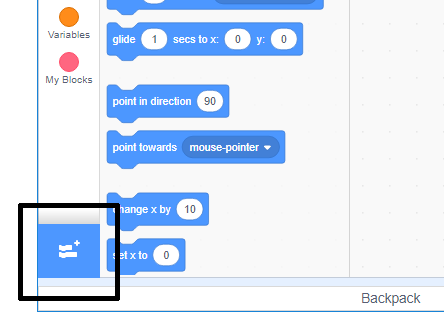
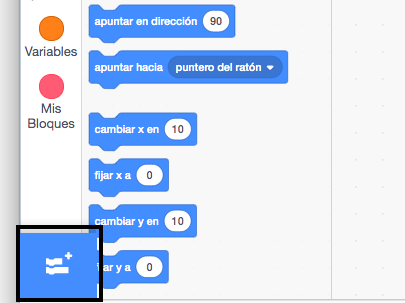
Update translation
LatAm Spanish

diff --git a/es-LA/step_2.md b/es-LA/step_2.md
@@ -20,7 +20,7 @@ Se ve así:
 
 --- task ---
 
-El objeto gato que ves es la mascota de Scratch. No lo necesitas para este juego, de modo que puedes eliminarlo haciendo clic encima de él con el botón derecho y luego haciendo clic en **borrar**.
+El objeto gato que ves es la mascota de Scratch. No lo necesitas para este juego, así que elimínalo haciendo clic en la X de la esquina.
 
 ![captura de pantalla](images/band-delete-annotated.png)
 
@@ -44,17 +44,13 @@ Baja hasta encontrar el objeto tambor. Haz clic en un tambor para añadirlo a tu
 
 --- task ---
 
-Haz clic y arrastra el tambor hasta la parte inferior del escenario.
-
---- /task ---
-
---- task ---
-
-Dale un nombre a tu programa escribiendo en el cuadro de texto en la esquina superior.
+Si has iniciado sesión en tu cuenta de Scratch, escribe el título de tu proyecto en el cuadro de título del proyecto en la parte superior de la pantalla:
 
 ![nombre](images/band-name-annotated.png)
 
-Luego haz clic en **Archivo**, y luego en **Guardar ahora** para guardar tu proyecto.
+**Consejo:** Dale a tus proyectos nombres útiles para que puedas encontrarlos fácilmente cuando tengas muchos proyectos.
+
+A continuación, haz clic en Archivo y luego en Guardar ahora para guardar tu proyecto.
 
 Si no estás conectado o no tienes una cuenta de Scratch, puedes guardar una copia de tu proyecto haciendo clic en **Guardar en tu computador**.
 

diff --git a/es-LA/step_1.md b/es-LA/step_1.md
@@ -1,9 +1,3 @@
---- no-print ---
-
-Esta es la versión **Scratch 3** del proyecto. También existe una versión [Scratch 2 del proyecto](https://projects.raspberrypi.org/es-LA/projects/rock-band-scratch2).
-
---- /no-print ---
-
 ## Introducción
 
 ¡Aprende cómo codificar tus propios instrumentos musicales!
@@ -12,7 +6,7 @@ Esta es la versión **Scratch 3** del proyecto. También existe una versión [Sc
 
 --- no-print ---
 
-Haz clic en la bandera verde para empezar. Luego, haz clic en el cantante o el tambor para escuchar cómo suenan.
+Vas a crear un juego en el que al hacer clic en el cantante o el tambor se escucharán cantos o los sonidos del tambor.
 
 <div class="scratch-preview">
   <iframe allowtransparency="true" width="485" height="402" src="https://scratch.mit.edu/projects/embed/276872220/?autostart=false" frameborder="0" scrolling="no"></iframe>
@@ -22,7 +16,7 @@ Haz clic en la bandera verde para empezar. Luego, haz clic en el cantante o el t
 
 --- print-only ---
 
-Vas a crear un juego en el que al hacer clic en el cantante o el tambor se escucharán cantos o los sonidos del tambor.
+Haz clic en la bandera verde para empezar. Luego, haz clic en el cantante o el tambor para escuchar cómo suenan.
 
 ![captura de pantalla del juego](images/demo.png)
 

diff --git a/es-LA/step_9.md b/es-LA/step_9.md
@@ -19,12 +19,13 @@ Haz clic en la bandera verde para ver la animación.
 
 --- /print-only ---
 
-
 ***
+
 Este proyecto fue traducido por voluntarios:
 
 Carlos Gomez Garza
-
 Natalie Gomez Benavides
+Verónica VL
+Ana Luisa Cubas Córdova
 
 Gracias a los voluntarios, podemos dar a las personas de todo el mundo la oportunidad de aprender en su propio idioma. Puedes ayudarnos a llegar a más personas ofreciéndote como voluntario para traducir. Más información en [rpf.io/translate](https://rpf.io/translate).

diff --git a/es-LA/step_8.md b/es-LA/step_8.md
@@ -1,4 +1,4 @@
-## Desafío: mejora tu banda
+## Desafío: Mejora tu banda
 
 ¡Usa lo que has aprendido en este proyecto para hacer tu propia banda! Puedes crear cualquier instrumento que quieras: echa un vistazo a los objetos y sonidos de instrumentos disponibles para darte algunas ideas.
 
@@ -6,7 +6,7 @@
 
 ```blocks3
 al hacer clic en este objeto
-fijar instrumento a (\(1\) Piano v)
+fijar instrumento a ((1) Piano v)
 tocar nota (60) durante (0.25) tiempos
 ```
 

diff --git a/es-LA/step_4.md b/es-LA/step_4.md
@@ -23,8 +23,8 @@ Haz clic en la extensión **Música** para añadirla.
 Haz clic en el objeto tambor, y luego arrastra estos dos bloques al área de código de la derecha:
 
 ```blocks3
-when this sprite clicked
-play drum (\(1\) Caja v) for (0.25) beats
+al hacer clic en este objeto
+tocar tambor (\ (1 \) Caja v) durante (0.25) pulsos
 ```
 
 --- no-print ---

diff --git a/es-LA/step_3.md b/es-LA/step_3.md
@@ -20,6 +20,12 @@ Haz clic en **Interiores** en la lista de la parte superior. Luego haz clic en e
 
 --- task ---
 
+Haz clic y arrastra el tambor hasta la parte inferior del escenario.
+
+--- /task ---
+
+--- task ---
+
 Ahora tu escenario debe tener este aspecto:
 
 ![captura de pantalla](images/band-stage.png)
